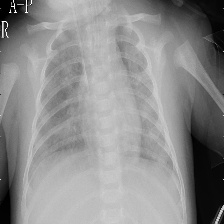
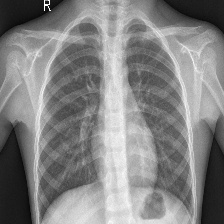
Fix app.py code
Fix tensorflow 2.19.0 compatibility error and change last convulation layer to out_relu

diff --git a/app.py b/app.py
@@ -8,7 +8,7 @@ app.config['UPLOAD_FOLDER'] = 'static/uploads'
 
 # Load your trained model once when app starts
 model = tf.keras.models.load_model('model.h5')
-last_conv_layer_name = 'Conv_1'  # MobileNetV2 last conv layer
+last_conv_layer_name = 'out_relu'  # MobileNetV2 last conv layer
 
 def generate_gradcam(img_path, model, last_conv_layer_name):
     # Load and preprocess image
@@ -16,43 +16,60 @@ def generate_gradcam(img_path, model, last_conv_layer_name):
     img_array = tf.keras.preprocessing.image.img_to_array(img)
     img_array = np.expand_dims(img_array, axis=0) / 255.0
 
-    # Create model that maps input to activations + predictions
+    # Build a model that maps input -> (conv activations, predictions)
     grad_model = tf.keras.models.Model(
-        [model.inputs], [model.get_layer(last_conv_layer_name).output, model.output]
+        inputs=model.input,  # prefer .input in Keras 3 to avoid structure warnings
+        outputs=[model.get_layer(last_conv_layer_name).output, model.output]
     )
 
     # Compute gradients
     with tf.GradientTape() as tape:
         conv_outputs, predictions = grad_model(img_array)
-        class_index = tf.argmax(predictions[0])
-        loss = predictions[:, class_index]
 
-    grads = tape.gradient(loss, conv_outputs)
-    pooled_grads = tf.reduce_mean(grads, axis=(0, 1, 2))
-    conv_outputs = conv_outputs[0]
-    heatmap = conv_outputs @ pooled_grads[..., tf.newaxis]
-    heatmap = tf.squeeze(heatmap)
+        # Unwrap predictions if model.output is a list/tuple
+        if isinstance(predictions, (list, tuple)):
+            predictions = predictions[0]  # shape: (1, num_classes)
 
-    # Normalize heatmap
-    heatmap = np.maximum(heatmap, 0)
-    heatmap /= tf.math.reduce_max(heatmap)
+        # Pick the top predicted class for this image
+        class_index_tensor = tf.argmax(predictions[0])  # scalar tensor
+        # Build scalar loss for Grad-CAM over the chosen class
+        loss = tf.gather(predictions, class_index_tensor, axis=1)  # shape: (1,)
 
-    # Load original image with OpenCV and convert for RGB overlay
+    # Gradients of loss w.r.t. conv maps
+    grads = tape.gradient(loss, conv_outputs)  # shape: (1, H, W, C)
+
+    # Channel-wise global average pooling of gradients
+    pooled_grads = tf.reduce_mean(grads, axis=(0, 1, 2))  # shape: (C,)
+
+    # Weight conv outputs by pooled grads
+    conv_outputs = conv_outputs[0]  # (H, W, C)
+    heatmap = tf.tensordot(conv_outputs, pooled_grads, axes=([2], [0]))  # (H, W)
+
+    # Normalize heatmap safely
+    heatmap = tf.maximum(heatmap, 0)
+    denom = tf.reduce_max(heatmap)
+    heatmap = heatmap / (denom + 1e-8)
+    heatmap = heatmap.numpy()
+
+    # Load original image (OpenCV is BGR)
     img_original = cv2.imread(img_path)
     img_original = cv2.resize(img_original, (224, 224))
-    img_original = cv2.cvtColor(img_original, cv2.COLOR_BGR2RGB)
+    img_original_rgb = cv2.cvtColor(img_original, cv2.COLOR_BGR2RGB)
 
-    # Create heatmap color image
-    heatmap_resized = cv2.resize(heatmap.numpy(), (224, 224))
+    # Create color heatmap
+    heatmap_resized = cv2.resize(heatmap, (224, 224))
     heatmap_uint8 = np.uint8(255 * heatmap_resized)
     heatmap_color = cv2.applyColorMap(heatmap_uint8, cv2.COLORMAP_JET)
     heatmap_color_rgb = cv2.cvtColor(heatmap_color, cv2.COLOR_BGR2RGB)
 
-    # Overlay the heatmap onto the original image
-    superimposed_img = cv2.addWeighted(img_original, 0.6, heatmap_color_rgb, 0.4, 0)
+    # Overlay
+    overlay = cv2.addWeighted(img_original_rgb, 0.6, heatmap_color_rgb, 0.4, 0)
 
-    # Return results and prediction confidence
-    return img_original, heatmap_color, superimposed_img, predictions.numpy()[0][class_index].item()
+    # Confidence for the chosen class
+    class_index = int(class_index_tensor.numpy())
+    confidence = float(predictions.numpy()[0, class_index])
+
+    return img_original_rgb, heatmap_color, overlay, confidence
 
 
 @app.route('/', methods=['GET', 'POST'])
